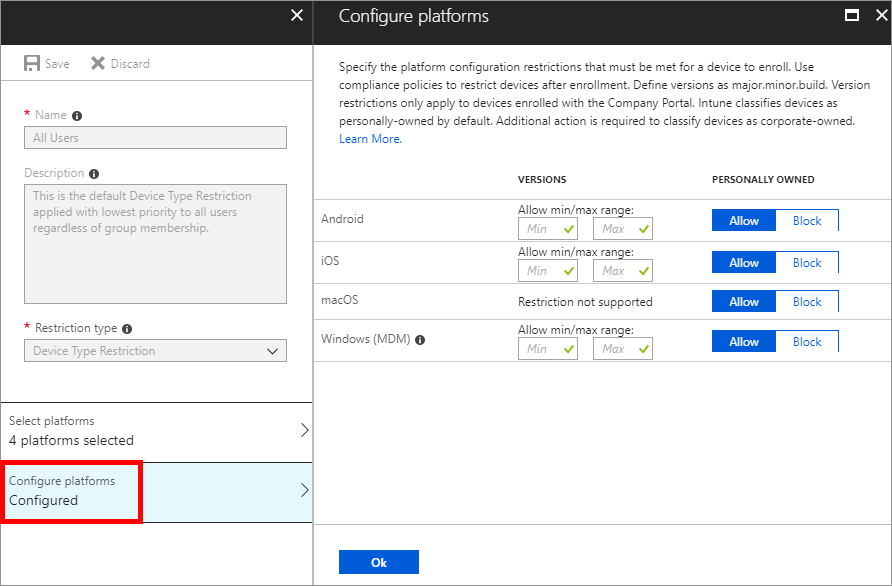
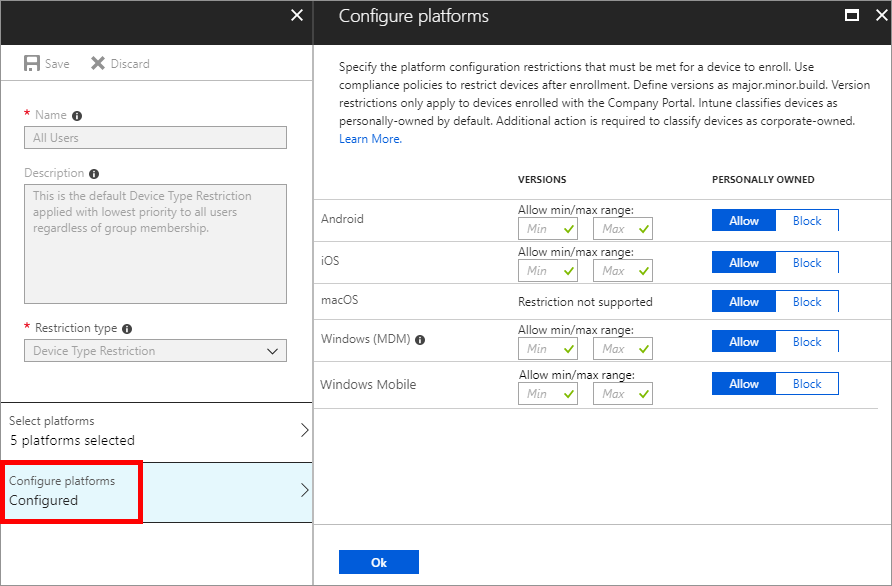
updates for Windows Mobile

diff --git a/intune/enrollment-restrictions-set.md b/intune/enrollment-restrictions-set.md
@@ -47,10 +47,11 @@ The specific enrollment restrictions that you can create include:
   - iOS
   - macOS
   - Windows
-- Platform operating system version for iOS, Android, Android work profile, and Windows. (Only Windows 10 versions can be used. Leave this blank if Windows 8.1 is allowed.)
+  - Windows Mobile
+- Platform operating system version for iOS, Android, Android work profile, Windows, and Windows Mobile. (Only Windows 10 versions can be used. Leave this blank if Windows 8.1 is allowed.)
   - Minimum version.
   - Maximum version.
-- Restrict personally owned devices (iOS, Android, Android work profile, macOS, Windows only).
+- Restrict personally owned devices (iOS, Android, Android work profile, macOS, Windows, and Windows Mobile only).
 
 ## Default restrictions
 
